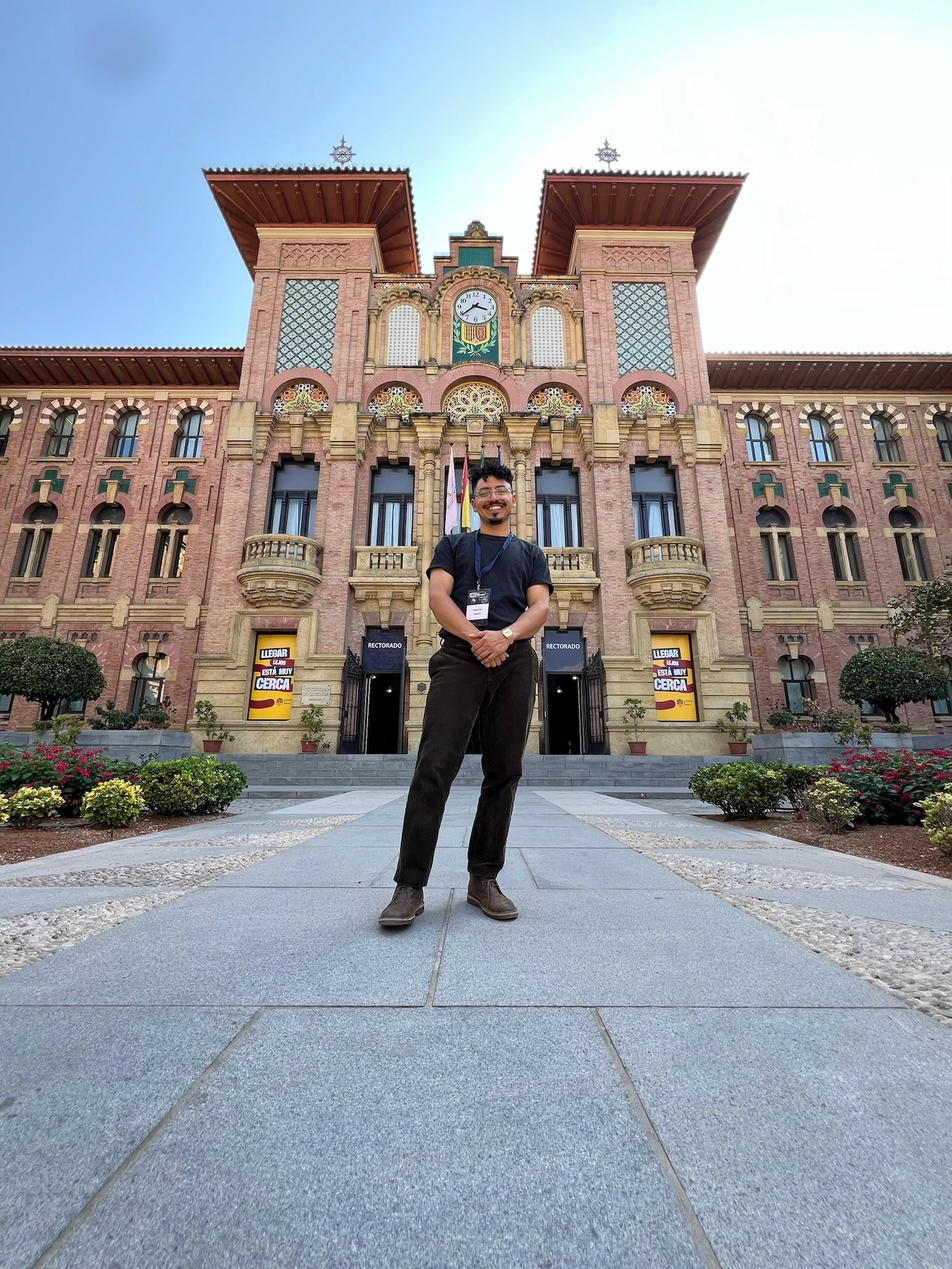
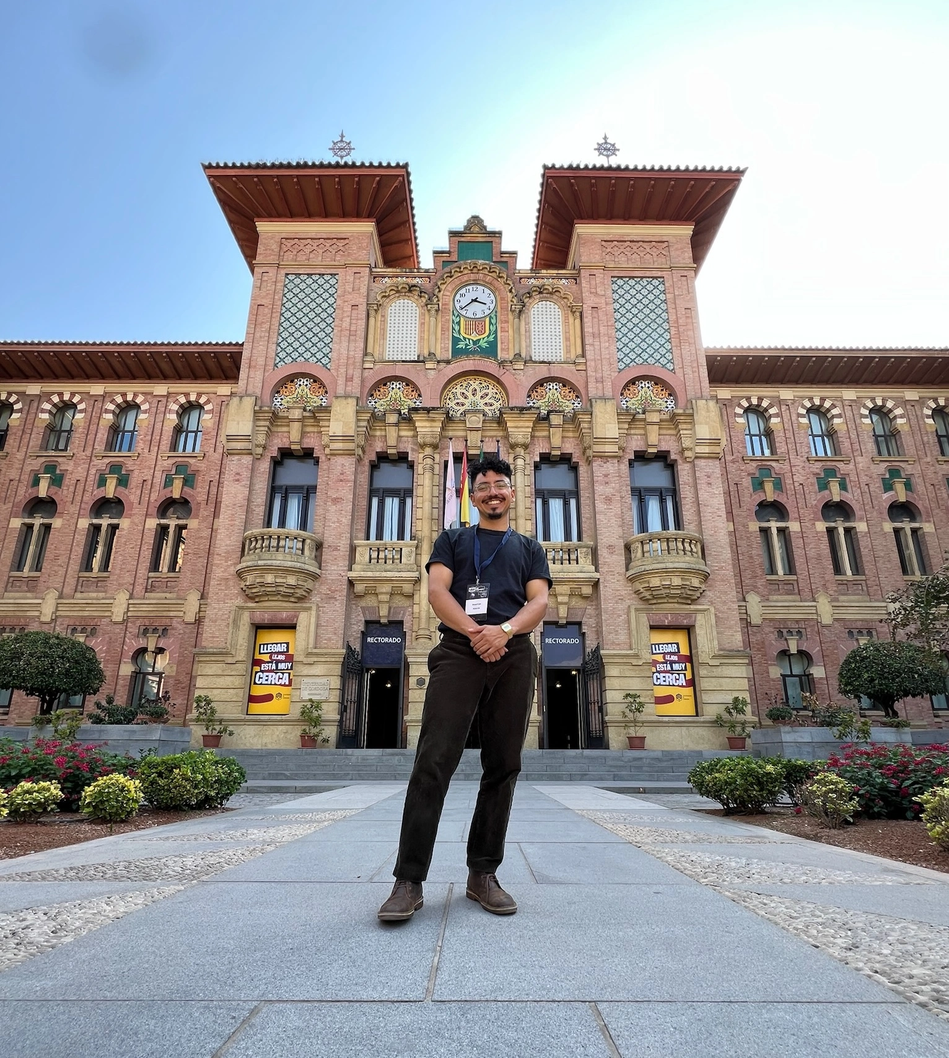
tweaking the image sizes

diff --git a/_pages/publications.md b/_pages/publications.md
@@ -10,7 +10,7 @@ author_profile: true
 
 In the ΛCDM paradigm, stellar halos form through the accretion and disruption of satellite galaxies. We introduce new semi-analytic modeling within the SatGen framework to track the ex-situ stellar components of Milky Way--like galaxies across large ensembles of merger trees, enabling a statistical study of the stochastic nature of galaxy assembly. We find that accreted stellar halos are typically built by only a few progenitors and are highly sensitive to the fate of the most massive satellite, producing order-of-magnitude variations in accreted stellar halo mass even at fixed host halo mass. Different stellar components trace distinct phases of host halo growth: central and accreted stellar mass correlate most strongly with early assembly, while surviving satellites trace more recent accretion. Finally, using Random Forest Regression, we quantify how well observable galaxy properties can recover halo assembly histories, providing a framework for interpreting upcoming low-surface-brightness observations of stellar halos. Read the paper [here](https://arxiv.org/abs/2601.18954)
 
-<br/><img src='/files/example_MAHs.webp' height="75%">
+<br/><img src='/files/example_MAHs.webp'>
 
 The mass accretion histories (MAHs) of the four illustrative example MW-like galaxies. Top panel: The host halo evolution with corresponding formation times. Notice there is significant variance across the four examples despite them all having the same present-day mass. Second panel: The central galaxy evolution which is dominated by in-situ star formation. Notice that the earliest forming galaxy has the largest present-day stellar mass. Notice the relative smoothness in the growth of the stellar mass of the central component compared to the step-like increase of the mass of the dark matter halo. This is a consequence of the fact that the build-up of stellar mass involves an integration of the star formation rate across cosmic time. Third panel: The accreted stellar halo evolution whose which are a convolution of the dark matter MAHs and the subsequent satellite orbit evolution. 
 

diff --git a/_pages/blog.md b/_pages/blog.md
@@ -7,7 +7,7 @@ author_profile: true
 
 ### Only one member of the committee left
 Time flies when you are having fun
-<br/><img src='/images/cock.webp' height="75%">
+<br/><img src='/images/cock.webp'>
 
 ### University of Cordoba
 Amazing place to hold a conference
